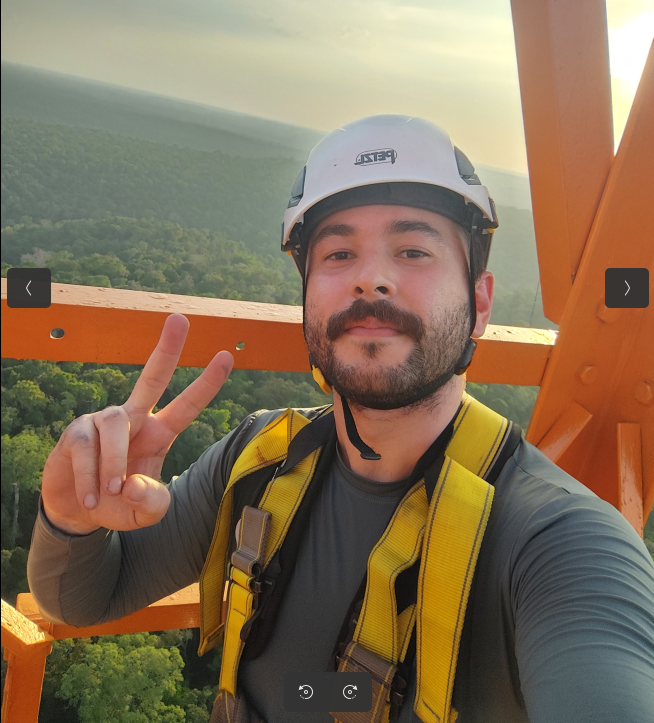
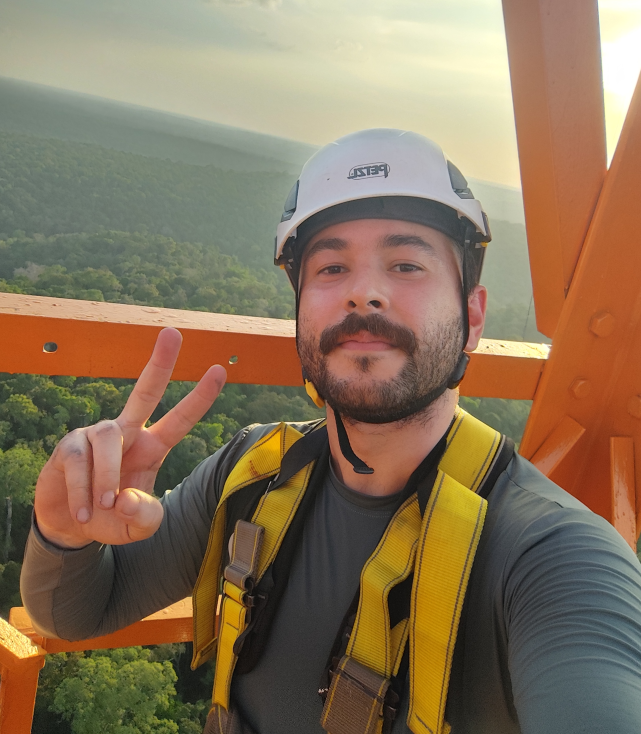
New updates! Ongoing Projetcs and About Me

diff --git a/index.html b/index.html
@@ -85,12 +85,13 @@
         <h2 class="section-title">About</h2>
         <div class="item">
           <p style="text-align: justify;">
-            I am a PhD researcher in Environmental Engineering at UFPR, advised by <a href="https://nldias.github.io/"
+            I am a PhD student in Environmental Engineering at UFPR, advised by <a href="https://nldias.github.io/"
               target="_blank">Prof. Nelson Luís Dias</a>, specializing in micrometeorology and atmospheric turbulence.
             My work bridges experimental and numerical domains: I study atmosphere-forest interactions, develop novel
-            spectral analysis methods, and develop Computational Fluid Dynamics (CFD) solvers. To drive these models, I
+            spectral analysis methods, and write custom Computational Fluid Dynamics (CFD) solvers. To drive these
+            models, I
             focus on high-performance scientific programming using Chapel and Python for numerical methods and CPU/GPU
-            parallel computing. Additionally, I maintain a strong interest in coastal wave modeling.
+            parallel computing. Additionally, my background includes previous experience in coastal wave modeling.
           </p>
         </div>
       </section>
@@ -222,30 +223,57 @@
       <section id="projects">
         <h2 class="section-title">Ongoing Projects</h2>
         <div class="pub-grid" style="margin-top:12px; margin-bottom:12px;">
+
+          <!-- Projeto 1: Formulação Espectral -->
           <div class="item">
             <h3>A Spectral Formulation Based on the Geometric Mean: Development and Application to Turbulent Flow
               Analysis</h3>
             <p style="text-align: justify;">
-              This research develops a spectral formulation based on the geometric mean, generalized using a
-              logarithmic-modulus approach.
-              The main objective is to address sign alternation issues commonly observed in co-spectra, particularly at
-              high frequencies, while preserving physical interpretability.
-              The formulation is applied to atmospheric turbulence data, with emphasis on improving the robustness of
-              spectral analysis under observational constraints.
+              This research introduces a novel spectral formulation utilizing the geometric mean, generalized through a
+              logarithmic-modulus approach. The primary goal is to resolve the sign alternation issues frequently
+              encountered in co-spectra—especially at high frequencies—without sacrificing physical interpretability.
+              By applying this methodology to atmospheric turbulence data, this project aims to significantly enhance
+              the robustness and reliability of spectral analysis under real-world observational constraints.
             </p>
           </div>
 
+          <!-- Projeto 2: Dinâmica na ATTO (Amazônia) -->
           <div class="item">
-            <h3>The Influence of Topography and Vegetation on Turbulence in the Amazon Forest Roughness
-              Sublayer</h3>
+            <h3>The Influence of Topography and Vegetation on Turbulence in the Amazon Forest Roughness Sublayer</h3>
             <p style="text-align: justify;">
-              Investigation of turbulence dynamics in the Amazon forest at the ATTO site, with emphasis on the effects
-              of topography and vegetation within the roughness sublayer.
-              This research is based on the analysis of multi-height observational data (35, 50, 81 m) and focuses on
-              the turbulent kinetic energy (TKE) budget and the temperature variance budget to better characterize
-              atmosphere-forest interactions.
+              This project investigates the complex dynamics of turbulence within the Amazon rainforest canopy at the
+              Amazon Tall Tower Observatory (ATTO). Focusing on the roughness sublayer, we explore how local topography
+              and dense vegetation modulate airflow. Using multi-height micrometeorological data (35m, 50m, and 81m),
+              the research analyzes the turbulent kinetic energy (TKE) and temperature variance budgets to provide a
+              more accurate characterization of atmosphere-forest interactions.
             </p>
           </div>
+
+          <!-- Projeto 3: Calibração In-Situ -->
+          <div class="item">
+            <h3>In-Situ Calibration of Sonic Anemometer Temperature Bias Using the Temperature Variance Budget</h3>
+            <p style="text-align: justify;">
+              This project develops an innovative analytical method to correct temperature biases in sonic anemometers
+              using the atmospheric temperature variance budget. By transforming an ill-conditioned optimization problem
+              into an exact linear system, this approach mathematically preserves the physical integrity of the
+              turbulent temperature gradient. The methodology provides a robust QA/QC tool for correcting multi-level
+              micrometeorological data, even in the absence of absolute temperature references.
+            </p>
+          </div>
+
+          <!-- Projeto 4: DNS Chapel -->
+          <div class="item">
+            <h3>High-Performance Direct Numerical Simulation (DNS) of Scalar Transport in Rayleigh-Bénard Convection
+            </h3>
+            <p style="text-align: justify;">
+              This project involves the development of a highly optimized 2D Direct Numerical Simulation (DNS) solver
+              written in the Chapel programming language, designed to investigate passive and active scalar transport in
+              Rayleigh-Bénard Convection. By employing advanced numerical schemes—including a TVD Superbee limiter and
+              a Multigrid V-Cycle Poisson solver—the code accurately resolves scalar micro-filaments with extreme
+              Schmidt numbers (up to Sc=100) without artificial diffusion.
+            </p>
+          </div>
+
         </div>
       </section>
 
